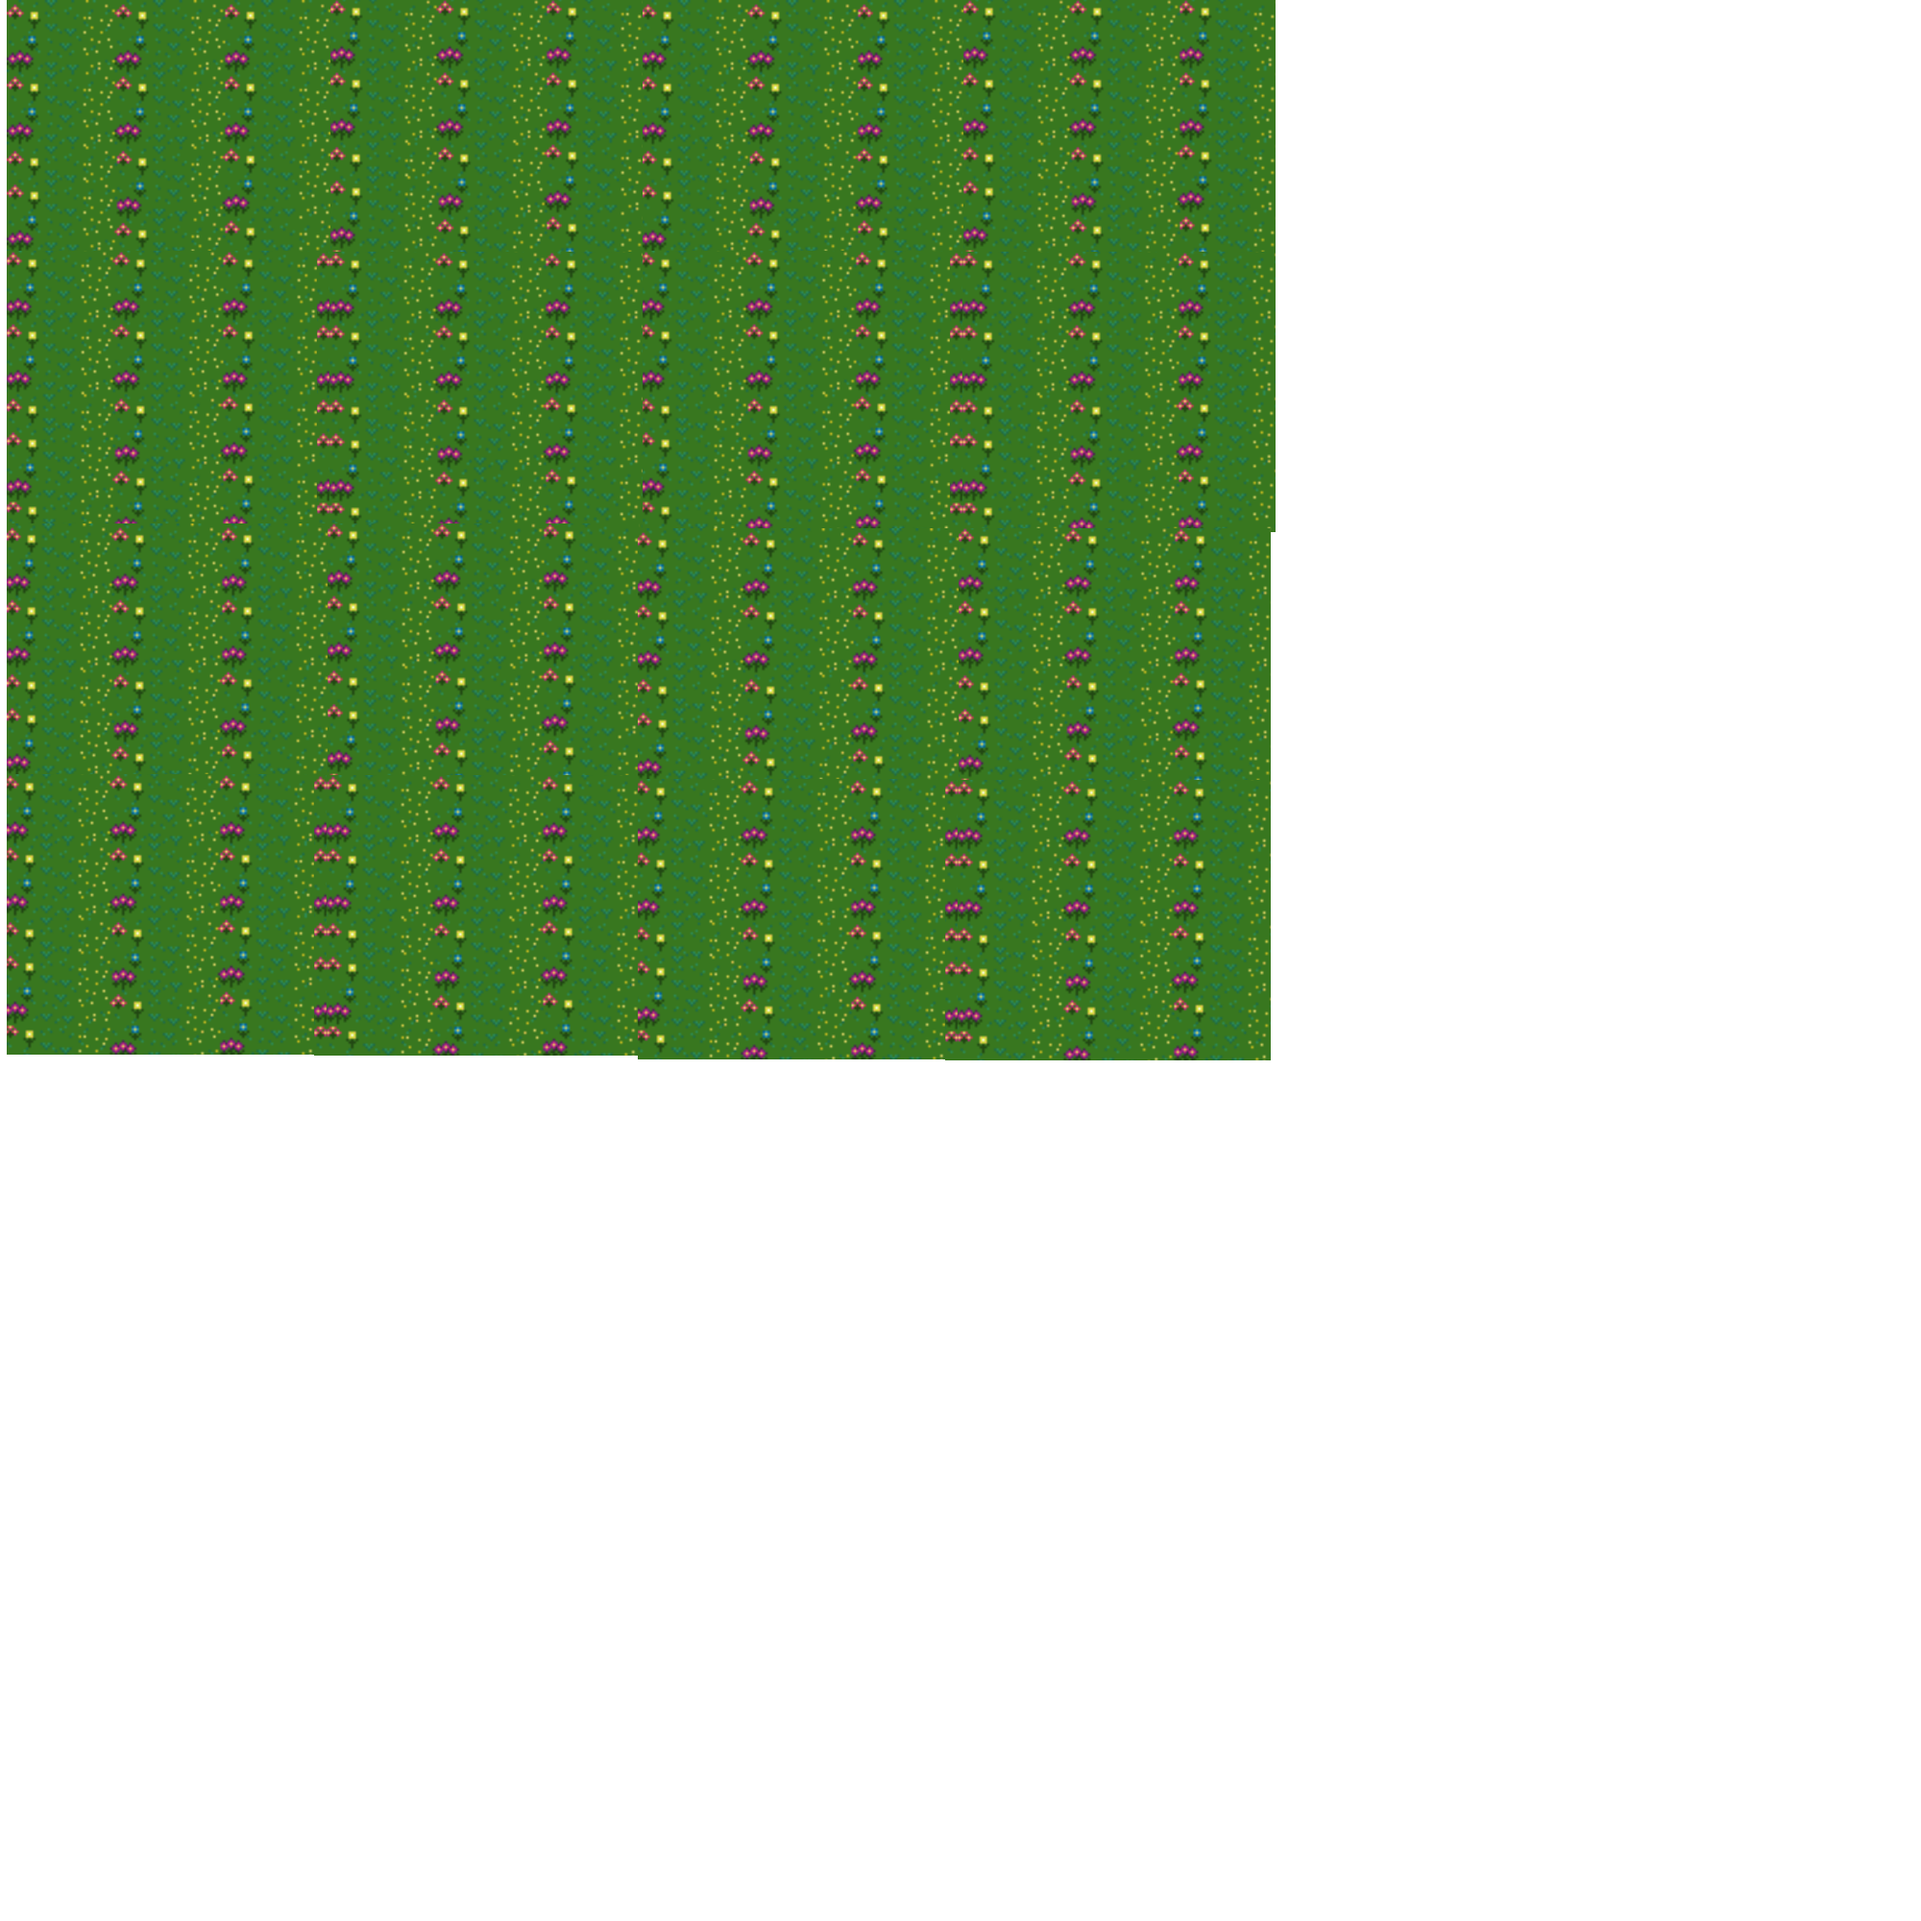
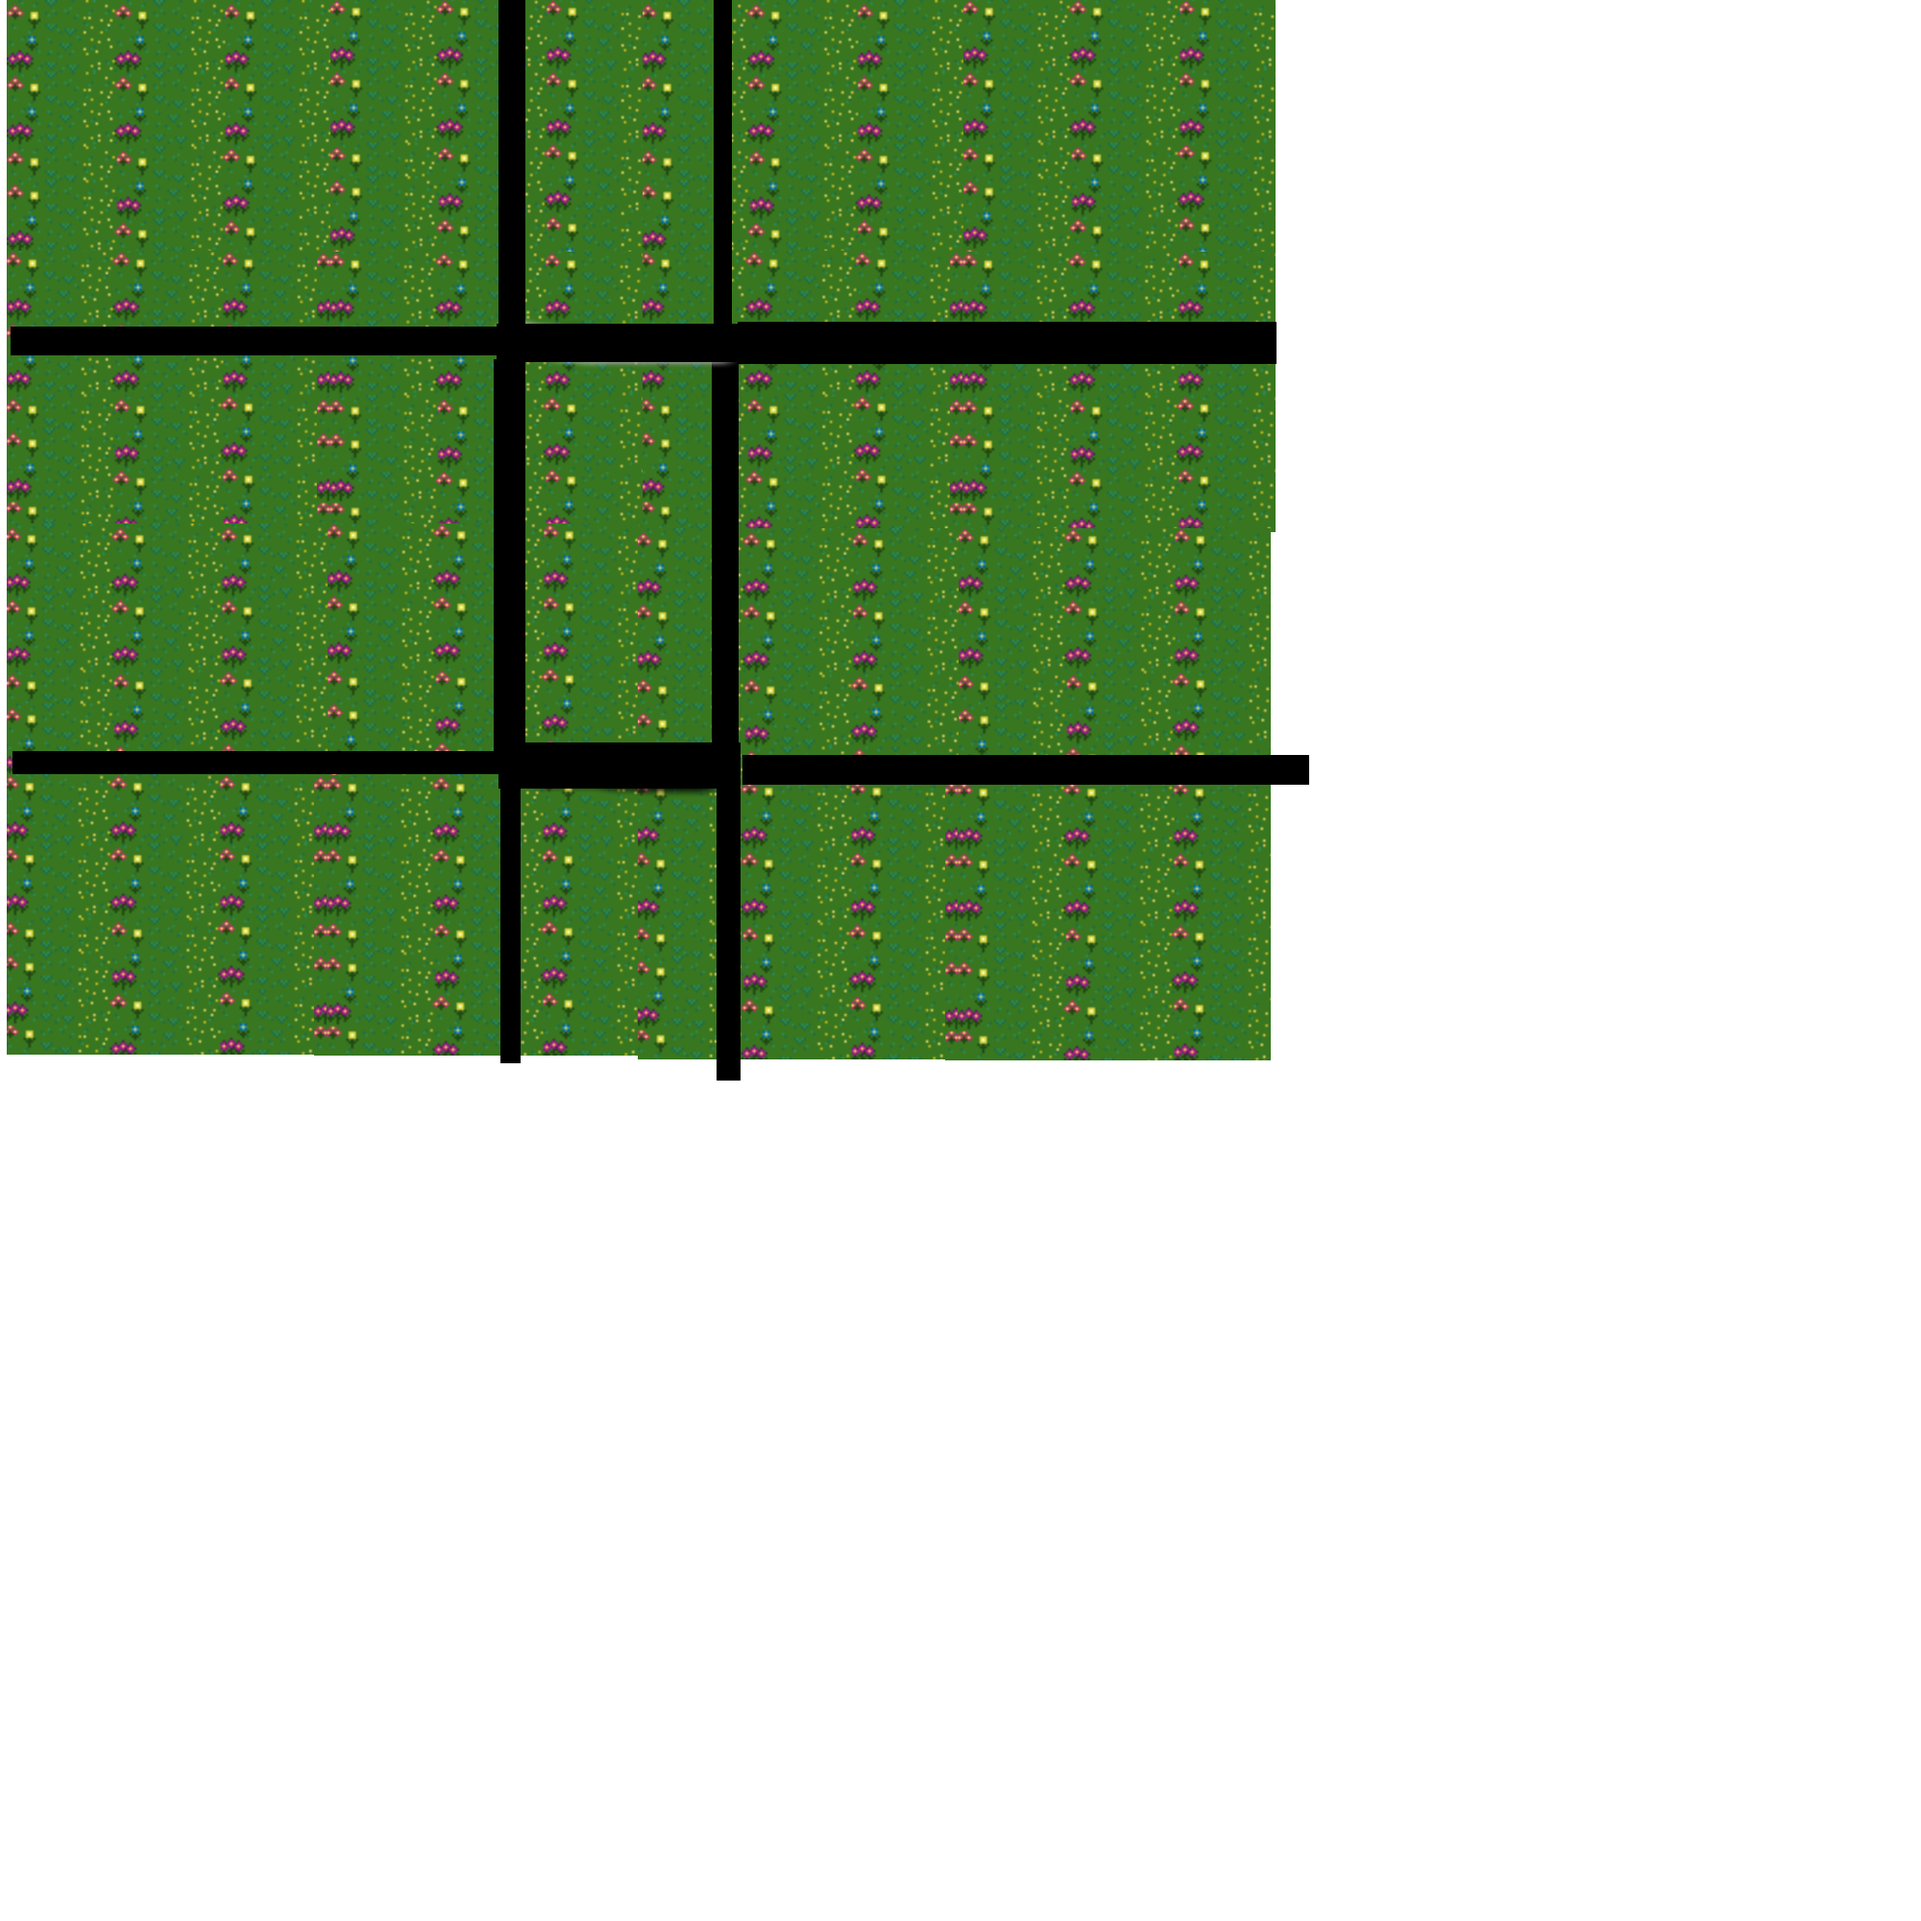
Camera is not broken yet

Changed region(s): [[0.0, 0.0, 0.682, 0.558]]

diff --git a/src/game/states/Play.java b/src/game/states/Play.java
@@ -12,7 +12,6 @@ public class Play extends BasicGameState {
     private float mapX = -100;
     private float mapY = -100;
 
-
     private Player player;
 
     public Play(int ID) {
@@ -38,6 +37,7 @@ public class Play extends BasicGameState {
     public void render(GameContainer gameContainer, StateBasedGame stateBasedGame, Graphics graphics) throws SlickException {
         this.worldMap.draw(mapX, mapY);
         this.player.draw();
+
         graphics.drawString(String.format("Player X: %.2f; Y: %.2f", this.player.getPlayerX(), this.player.getPlayerY()), 50, 50);
     }
 
@@ -45,85 +45,155 @@ public class Play extends BasicGameState {
     public void update(GameContainer gameContainer, StateBasedGame stateBasedGame, int i) throws SlickException {
         Input input = gameContainer.getInput();
 
-        if (input.isKeyDown(Input.KEY_UP) && input.isKeyDown(Input.KEY_LEFT)) {
+        /*if (input.isKeyDown(Input.KEY_UP) && input.isKeyDown(Input.KEY_LEFT)) {
             this.player.setPlayerUp();
-            this.walkUpMap(i, .1f);
-            this.walkLeftMap(i, .1f);
+
+            this.player.setPlayerX(this.player.getPlayerX() - i * .1f);
+            this.player.setPlayerY(this.player.getPlayerY() + i * .1f);
+
+            if (this.player.getPlayerX() > -70 && this.player.getPlayerY() < 70) {
+                this.moveUpMap(i, .1f);
+                this.moveLeftMap(i, .1f);
+            } *//*else {
+                this.walkUpPlayer(i, .1f);
+                this.walkLeftPlayer(i, .1f);
+            }*//*
         } else if (input.isKeyDown(Input.KEY_UP) && input.isKeyDown(Input.KEY_RIGHT)) {
             this.player.setPlayerUp();
-            this.walkUpMap(i, .1f);
-            this.walkRightMap(i, .1f);
+
+            this.player.setPlayerX(this.player.getPlayerX() + i * .1f);
+            this.player.setPlayerY(this.player.getPlayerY() + i * .1f);
+
+            this.moveUpMap(i, .1f);
+            this.moveRightMap(i, .1f);
         } else if (input.isKeyDown(Input.KEY_DOWN) && input.isKeyDown(Input.KEY_LEFT)) {
             this.player.setPlayerDown();
-            this.walkDownMap(i, .1f);
-            this.walkLeftMap(i, .1f);
+
+            this.player.setPlayerX(this.player.getPlayerX() - i * .1f);
+            this.player.setPlayerY(this.player.getPlayerY() - i * .1f);
+
+            this.moveDownMap(i, .1f);
+            this.moveLeftMap(i, .1f);
         } else if (input.isKeyDown(Input.KEY_DOWN) && input.isKeyDown(Input.KEY_RIGHT)) {
             this.player.setPlayerDown();
-            this.walkDownMap(i, .1f);
-            this.walkRightMap(i, .1f);
-        } else if (input.isKeyDown(Input.KEY_UP)) {
+
+            this.player.setPlayerX(this.player.getPlayerX() + i * .1f);
+            this.player.setPlayerY(this.player.getPlayerY() - i * .1f);
+
+            this.moveDownMap(i, .1f);
+            this.moveRightMap(i, .1f);
+        } else*/ if (input.isKeyDown(Input.KEY_UP)) {
             this.player.setPlayerUp();
-            this.walkUpMap(i, .14f);
+
+            if (shouldMoveMapUpDown()) {
+                this.player.setPlayerY(this.player.getPlayerY() + i * .14f);
+
+                this.moveUpMap(i, .14f);
+            } else {
+                this.walkUpPlayer(i, .14f);
+            }
         } else if (input.isKeyDown(Input.KEY_RIGHT)) {
             this.player.setPlayerRight();
-            this.walkRightMap(i, .14f);
+
+            if (shouldMoveMapRightLeft()) {
+                this.player.setPlayerX(this.player.getPlayerX() + i *.14f);
+
+                this.moveRightMap(i, .14f);
+            } else {
+                this.walkRightPlayer(i, .14f);
+            }
         } else if (input.isKeyDown(Input.KEY_DOWN)) {
             this.player.setPlayerDown();
-            this.walkDownMap(i,.14f);
+
+            if (shouldMoveMapUpDown()) {
+                this.player.setPlayerY(this.player.getPlayerY() - i * .14f);
+
+                this.moveDownMap(i,.14f);
+            } else {
+                walkDownPlayer(i, .14f);
+            }
         } else if (input.isKeyDown(Input.KEY_LEFT)) {
             this.player.setPlayerLeft();
-            this.walkLeftMap(i,.14f);
+
+            if (shouldMoveMapRightLeft()) {
+                this.player.setPlayerX(this.player.getPlayerX() - i * .14f);
+
+                this.moveLeftMap(i,.14f);
+            } else {
+                walkLeftPlayer(i, .14f);
+            }
         } else {
             this.player.stop();
         }
     }
 
-    private void walkDownMap(int i, float flag) {
+    private boolean shouldMoveMapUpDown() {
+        return this.player.getPlayerY() > -400 && this.player.getPlayerY() < 70;
+    }
+
+    private boolean shouldMoveMapRightLeft() {
+        return this.player.getPlayerX() > -70 && this.player.getPlayerX() < 180;
+    }
+
+    //------------------------------------------------------------------------------
+    //------------------------------------------------------------------------------
+    //------------------------------------------------------------------------------
+
+
+    private void moveDownMap(int i, float flag) {
         this.mapY -= i * flag;
     }
 
-    private void walkRightMap(int i, float flag) {
+    private void moveRightMap(int i, float flag) {
         this.mapX -= i * flag;
     }
 
-    private void walkLeftMap(int i, float flag) {
+    private void moveLeftMap(int i, float flag) {
         this.mapX += i * flag;
     }
 
-    private void walkUpMap(int i, float flag) {
+    private void moveUpMap(int i, float flag) {
         this.mapY += i * flag;
     }
 
 
-//    private void walkUpPlayer(int i, float flag) {
-//        if (this.player.getPlayerY() < -110) {
-//            this.player.stop();
-//        } else {
-//            this.player.setPlayerY(this.player.getPlayerY() - i * flag);
-//        }
-//    }
-//
-//    private void walkRightPlayer(int i, float flag) {
-//        if (this.player.getPlayerX() > 885) {
-//            this.player.stop();
-//        } else {
-//            this.player.setPlayerX(this.player.getPlayerX() + i * flag);
-//        }
-//    }
-//
-//    private void walkDownPlayer(int i, float flag) {
-//        if (this.player.getPlayerY() > 389) {
-//            this.player.stop();
-//        } else {
-//            this.player.setPlayerY(this.player.getPlayerY() + i * flag);
-//        }
-//    }
-//
-//    private void walkLeftPlayer(int i, float flag) {
-//        if (this.player.getPlayerX() < -85) {
-//            player.stop();
-//        } else {
-//            this.player.setPlayerX(this.player.getPlayerX() - i * flag);
-//        }
-//    }
+    private void walkUpPlayer(int i, float flag) {
+        if (this.player.getPlayerY() < 350) {
+            this.player.setStartPlayerY(this.player.getStartPlayerY() - i * flag);
+
+            this.player.setPlayerY(this.player.getPlayerY() + i * flag);
+        } else {
+            this.player.stop();
+        }
+    }
+
+    private void walkRightPlayer(int i, float flag) {
+        if (this.player.getPlayerX() < 675) {
+            this.player.setStartPlayerX(this.player.getStartPlayerX() + i * flag);
+
+            this.player.setPlayerX(this.player.getPlayerX() + i * flag);
+        } else {
+            this.player.stop();
+        }
+    }
+
+    private void walkDownPlayer(int i, float flag) {
+        if (this.player.getPlayerY() > -615) {
+            this.player.setStartPlayerY(this.player.getStartPlayerY() + i * flag);
+
+            this.player.setPlayerY(this.player.getPlayerY() - i * flag);
+        } else {
+            this.player.stop();
+        }
+    }
+
+    private void walkLeftPlayer(int i, float flag) {
+        if (this.player.getPlayerX() > -520) {
+            this.player.setStartPlayerX(this.player.getStartPlayerX() - i * flag)
+            ;
+            this.player.setPlayerX(this.player.getPlayerX() - i * flag);
+        } else {
+            this.player.stop();
+        }
+    }
 }

diff --git a/src/game/models/Player.java b/src/game/models/Player.java
@@ -5,8 +5,8 @@ import org.newdawn.slick.Image;
 import org.newdawn.slick.SlickException;
 
 public class Player {
-    private static final float START_PLAYER_X = 375;
-    private static final float START_PLAYER_Y = 175;
+    private float startPlayerX = 375;
+    private float startPlayerY = 175;
 
     private float playerX;
     private float playerY;
@@ -38,10 +38,26 @@ public class Player {
         this.setMovingDown();
         this.setMovingLeft();
         
-        this.setPlayerX(START_PLAYER_X);
-        this.setPlayerY(START_PLAYER_Y);
+        this.setPlayerX(0);
+        this.setPlayerY(0);
 
         this.setPlayerDown();
+    }
+
+    public float getStartPlayerX() {
+        return this.startPlayerX;
+    }
+
+    public void setStartPlayerX(float startPlayerX) {
+        this.startPlayerX = startPlayerX;
+    }
+
+    public float getStartPlayerY() {
+        return this.startPlayerY;
+    }
+
+    public void setStartPlayerY(float startPlayerY) {
+        this.startPlayerY = startPlayerY;
     }
 
     public float getPlayerX() {
@@ -169,7 +185,7 @@ public class Player {
     }
 
     public void draw() {
-        this.player.draw(this.getPlayerX(), this.getPlayerY());
+        this.player.draw(startPlayerX, startPlayerY);
     }
 
     public void stop() {
